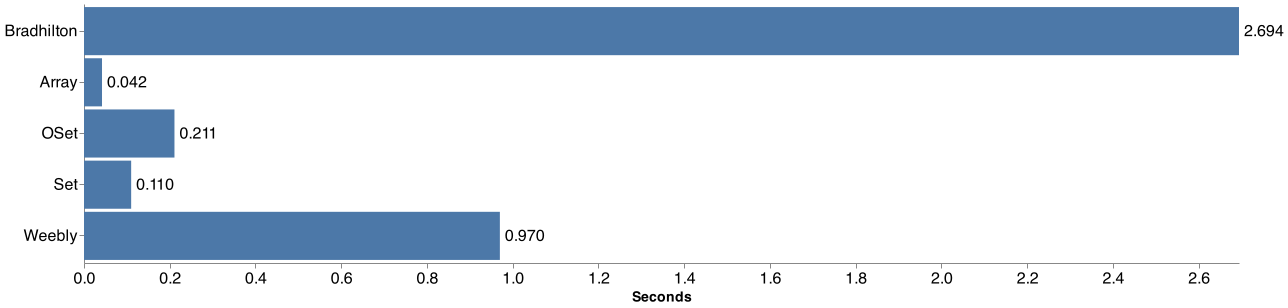
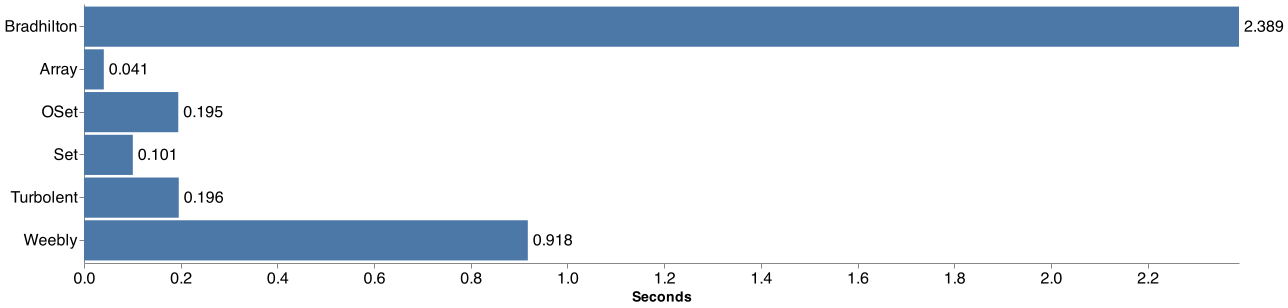
add Turbolent

diff --git a/Benchmarks/TurbolentBenchmarks/Tests/TurbolentBenchmarksTests/OSet.swift b/Benchmarks/TurbolentBenchmarks/Tests/TurbolentBenchmarksTests/OSet.swift
@@ -1,0 +1,128 @@
+import XCTest
+import OrderedSet
+import common // BenchmarksInputs
+
+class TurbolentBenchmarks: XCTestCase {
+    func testInit() {
+        let (input1_1, _, _) = BenchmarksInputs.inputsBig
+
+        self.measure {
+            _ = OrderedSet(input1_1)
+        }
+    }
+
+    func testContains() {
+        let (input1_1, _, _) = BenchmarksInputs.inputsBig
+
+        let oset1 = OrderedSet(input1_1)
+
+        self.measure {
+            _ = oset1.contains(input1_1[102400])
+        }
+    }
+
+    func testInsert() {
+        let (input1_1, _, _) = BenchmarksInputs.inputsBig
+
+        let oset1 = OrderedSet(input1_1)
+
+        self.measure {
+            var o1 = oset1
+            o1.insert("SOMEOTHERSTRINGTEST")
+        }
+    }
+
+    func testRemove() {
+        let (input1_1, _, _) = BenchmarksInputs.inputsBig
+
+        let oset1 = OrderedSet(input1_1)
+
+        self.measure {
+            var o1 = oset1
+            o1.remove(input1_1[102400])
+        }
+    }
+
+    func testUpdate() {
+        let (input1_1, _, _) = BenchmarksInputs.inputsBig
+
+        let oset1 = OrderedSet(input1_1)
+
+        self.measure {
+            var o1 = oset1
+            o1.update(with: "SOMEOTHERSTRINGTEST")
+        }
+    }
+
+    private func baseUnion(_ inputs: ([String], [String], [String])) {
+        let (input1_1, input1_2, _) = inputs
+
+        let oset1 = OrderedSet(input1_1)
+        let oset2 = OrderedSet(input1_2)
+
+        self.measure {
+            _ = oset1.union(oset2)
+        }
+    }
+
+    func testUnion() {
+        self.baseUnion(BenchmarksInputs.inputsSmall)
+    }
+
+    private func baseIntersection(_ inputs: ([String], [String], [String])) {
+        let (input1_1, input1_2, input2) = inputs
+
+        let oset1 = OrderedSet(input1_1 + input1_2 + input2)
+        let oset2 = OrderedSet(input1_2)
+
+        self.measure {
+            _ = oset1.intersection(oset2)
+        }
+    }
+
+    func testIntersection() {
+        self.baseIntersection(BenchmarksInputs.inputsSmall)
+    }
+
+    private func baseSymmetricDifference(_ inputs: ([String], [String], [String])) {
+        let (input1_1, input1_2, input2) = inputs
+
+        let oset1 = OrderedSet(input1_1 + input1_2)
+        let oset2 = OrderedSet(input1_2 + input2)
+
+        self.measure {
+            _ = oset1.symmetricDifference(oset2)
+        }
+    }
+
+    func testSymmetricDifference() {
+        self.baseSymmetricDifference(BenchmarksInputs.inputsSmall)
+    }
+
+    private func baseSubtracting(_ inputs: ([String], [String], [String])) {
+        let (input1_1, input1_2, input2) = inputs
+
+        let oset1 = OrderedSet(input1_1 + input1_2 + input2)
+        let oset2 = OrderedSet(input1_2)
+
+        self.measure {
+            _ = oset1.subtracting(oset2)
+        }
+    }
+
+    func testSubtracting() {
+        self.baseSubtracting(BenchmarksInputs.inputsSmall)
+    }
+
+    func testIteration() {
+        let (input1_1, input1_2, input2) = BenchmarksInputs.inputsMedium
+
+        let oset1 = OrderedSet(input1_1 + input1_2 + input2)
+
+        self.measure {
+            for e in oset1 {
+                _ = e
+            }
+        }
+    }
+}

diff --git a/Benchmarks/TurbolentBenchmarks/Package.swift b/Benchmarks/TurbolentBenchmarks/Package.swift
@@ -1,0 +1,16 @@
+// swift-tools-version:4.2
+import PackageDescription
+
+let package = Package(
+    name: "TurbolentBenchmarks",
+    dependencies: [
+        .package(path: "../../common"),
+        .package(url: "https://github.com/turbolent/OrderedSet", .exact("0.2.0")),
+    ],
+    targets: [
+        .testTarget(
+            name: "TurbolentBenchmarksTests",
+            dependencies: ["common", "OrderedSet"]
+        ),
+    ]
+)

diff --git a/Benchmarks/TurbolentBenchmarks/Tests/LinuxMain.swift b/Benchmarks/TurbolentBenchmarks/Tests/LinuxMain.swift
@@ -1,0 +1,6 @@
+import XCTest
+@testable import OSetBenchmarksTests
+
+XCTMain([
+    testCase(OSetBenchmarksTests.allTests),
+])

diff --git a/README.md b/README.md
@@ -14,7 +14,7 @@ Goal: Subsecond timings for all of the following.
 * Symmetric Difference of two OSets of 100.000 entries each.
 * Iteration over an OSet of 100.000 entries.
 
-Other than that, comparison benchmarks were performed against stdlib `Array` and `Set` (as reference) and two other Ordered Set implementations found, [`Bradhilton`](https://github.com/bradhilton/OrderedSet) and [`Weebly`](https://github.com/Weebly/OrderedSet).
+Other than that, comparison benchmarks were performed against stdlib `Array` and `Set` (as reference) and three other Ordered Set implementations found, [`Bradhilton`](https://github.com/bradhilton/OrderedSet), [`Weebly`](https://github.com/Weebly/OrderedSet) and [`Turbolent`](https://github.com/turbolent/OrderedSet).
 
 Due to some operations being very slow, to prevent comparison benchmarking from taking hours (literally) and producing almost unreadable results, some operations were stepped down in number of entries to 2.000. Said operations are: *Union*, *Intersection*, *Symmetric Difference* and *Subtracting*.
 
